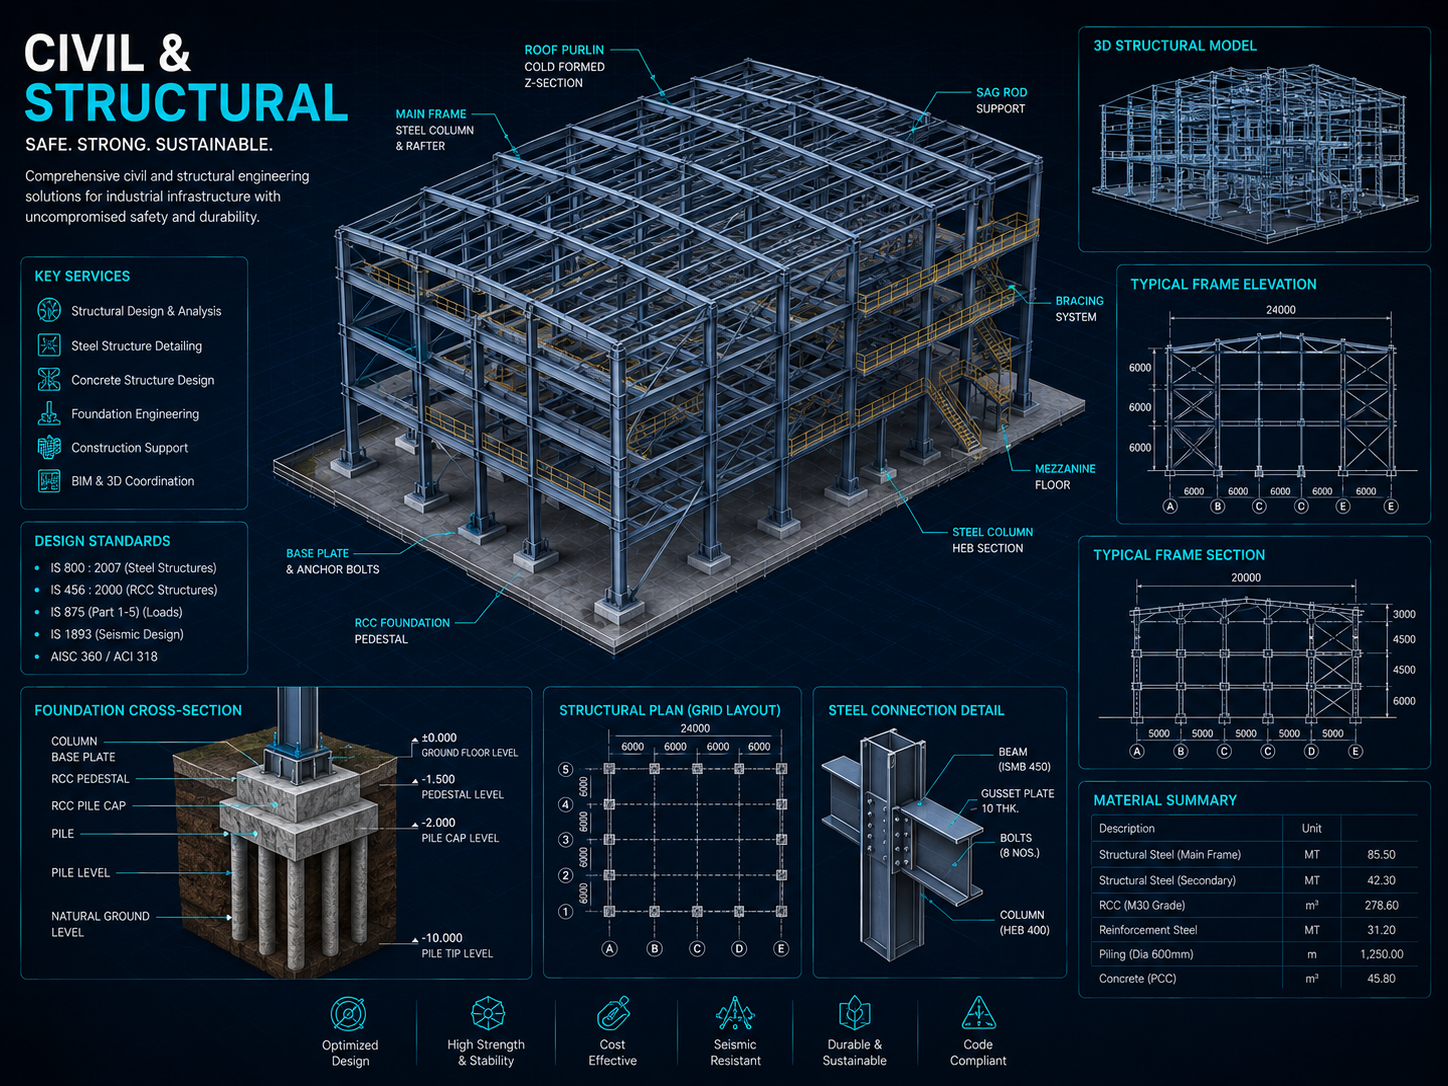
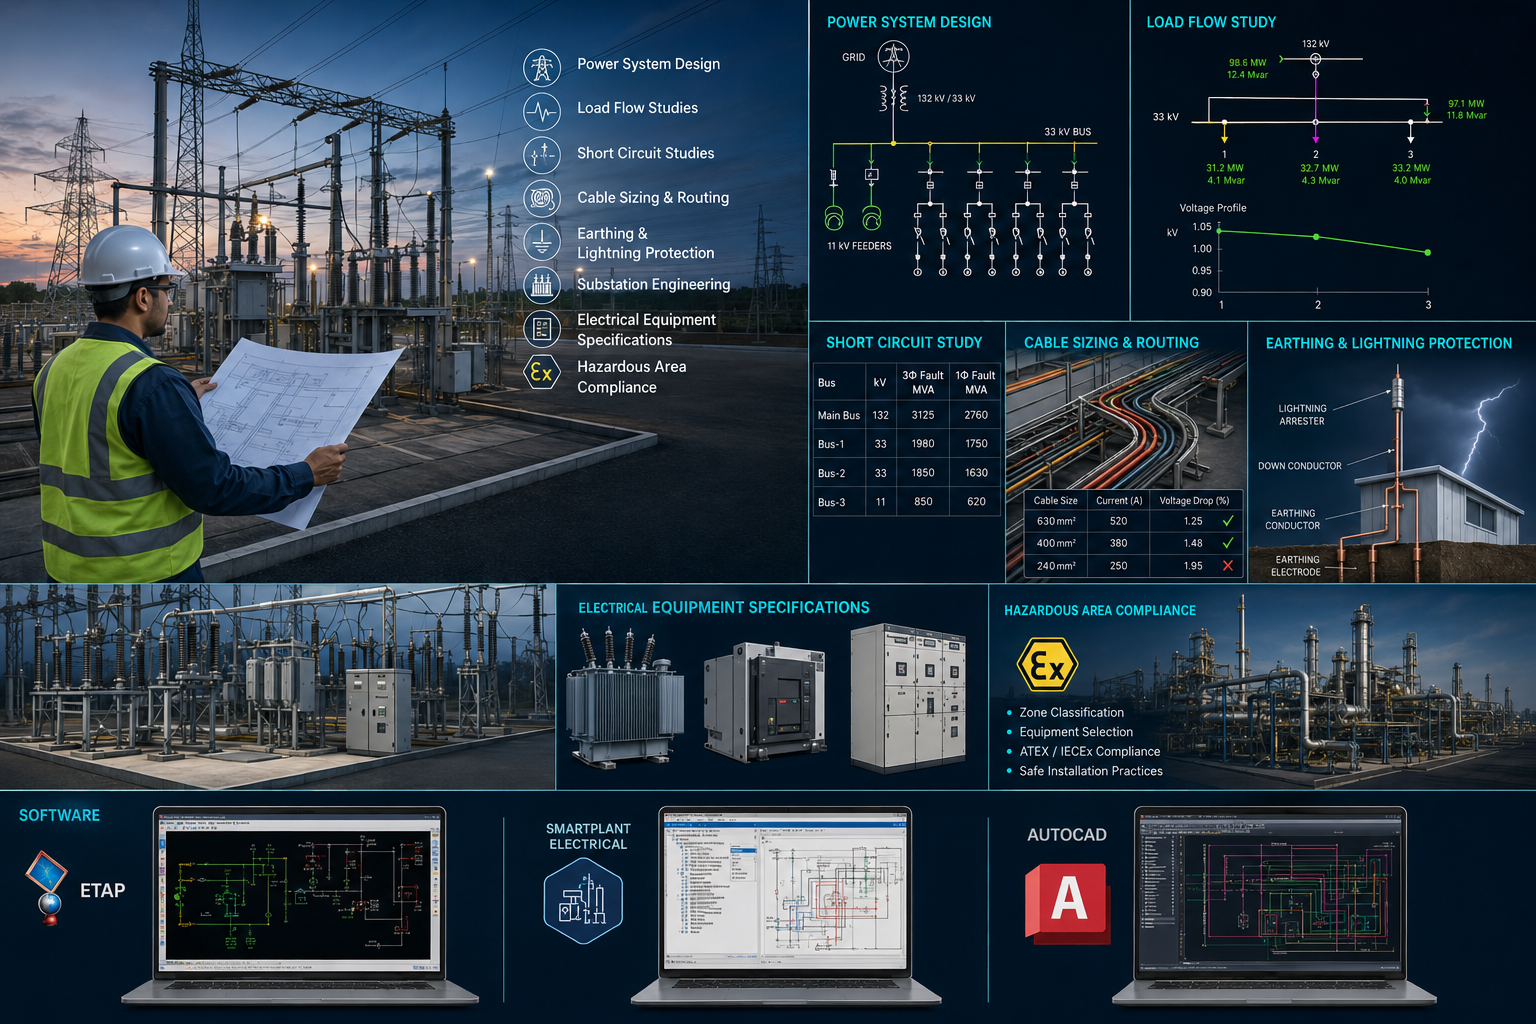
Update About page, footer, leadership profiles, navbar and website content

diff --git a/frontend/src/components/Navbar.jsx b/frontend/src/components/Navbar.jsx
@@ -4,7 +4,7 @@ import Link from 'next/link';
 import Image from 'next/image';
 import { usePathname } from 'next/navigation';
 import { motion, AnimatePresence } from 'framer-motion';
-import { ChevronDown, Menu, X, ArrowUpRight, LayoutDashboard } from 'lucide-react';
+import { ChevronDown, Menu, X, } from 'lucide-react';
 
 // ─── AUTHENTICATION & MODAL IMPORTS ──────────────────────────────────────────
 import { useAuth } from '@/context/AuthContext';
@@ -14,10 +14,7 @@ import logoImg from '../assets/aarvi-header-logo.png';
 
 // ─── NAV DATA ────────────────────────────────────────────────────────────────
 
-const ABOUT_LINKS = [
-  { label: "Vision & Mission", href: "/about#vision-mission" },
-  { label: "Management Team",  href: "/about#management-team" },
-];
+
 
 export const SERVICE_LINKS = [
   { 
@@ -150,41 +147,7 @@ function ServiceDropdown({ t, onClose }) {
   );
 }
 
-function AboutDropdown({ t, onClose }) {
-  return (
-    <div className={`absolute top-full left-0 w-full border-b backdrop-blur-2xl ${t.panel}`}>
-      <div className="max-w-7xl mx-auto px-6 lg:px-10 py-8 grid grid-cols-12 gap-8">
-        <div className="col-span-3 flex flex-col gap-4 pr-6" style={{ borderRight: `1px solid ${t.accent}18` }}>
-          <p className="font-mono text-[9px] tracking-[0.25em] uppercase" style={{ color: t.accent }}>
-            Aarvi Encon
-          </p>
-          <h3 className="font-sans font-black uppercase tracking-tight leading-tight text-xl text-aarvi-navy">
-            Corporate<br />Governance
-          </h3>
-          <p className="font-mono text-[11px] leading-relaxed text-aarvi-navy/60">
-            39+ years of engineering excellence. Trusted by global EPC contractors since 1987.
-          </p>
-        </div>
 
-        <div className="col-span-9 grid grid-cols-2 gap-1">
-          {ABOUT_LINKS.map((a) => (
-            <Link
-              key={a.href}
-              href={a.href}
-              onClick={onClose}
-              className={`group flex items-start gap-2 px-3.5 py-3 rounded-sm transition-colors duration-150 ${t.dlinkBg}`}
-            >
-              <span className="mt-0.5 text-[8px]" style={{ color: t.accent, opacity: 0.5 }}>┼</span>
-              <span className={`font-sans font-bold text-[11px] leading-snug transition-colors ${t.dlinkText} ${t.dlinkHov}`}>
-                {a.label}
-              </span>
-            </Link>
-          ))}
-        </div>
-      </div>
-    </div>
-  );
-}
 
 // ─── MAIN NAVBAR ─────────────────────────────────────────────────────────────
 
@@ -269,9 +232,9 @@ export default function Navbar() {
             <Image
               src={logoImg}
               alt="Aarvi Encon"
-              width={136}
-              height={44}
-              className="w-auto h-8 object-contain"
+              width={180}
+              height={60}
+              className="w-auto h-12 object-contain"
               priority
             />
           </Link>
@@ -280,15 +243,14 @@ export default function Navbar() {
           <nav className="hidden lg:flex items-center h-full flex-1 justify-center" aria-label="Main navigation">
             <NavLink href="/" t={t} onClick={closeMenu} isActive={pathname === '/'}>Home</NavLink>
 
-            <DropdownTrigger
-              label="About"
-              isMenuOpen={activeMenu === 'about'}
-              isActivePage={pathname.startsWith('/about')}
-              t={t}
-              onEnter={() => openMenu('about')}
-              onLeave={scheduleClose}
-              onClick={closeMenu}
-            />
+            <NavLink
+  href="/about"
+  t={t}
+  onClick={closeMenu}
+  isActive={pathname.startsWith('/about')}
+>
+  About
+</NavLink>
 
             <NavLink href="/industries" t={t} onClick={closeMenu} isActive={pathname.startsWith('/industries')}>
               Industries
@@ -352,18 +314,7 @@ export default function Navbar() {
                 <ServiceDropdown t={t} onClose={closeMenu} />
               </motion.div>
             )}
-            {activeMenu === 'about' && (
-              <motion.div
-                key="about-dd"
-                initial={{ opacity: 0, y: -8 }}
-                animate={{ opacity: 1, y: 0 }}
-                exit={{ opacity: 0, y: -6 }}
-                transition={{ duration: 0.2, ease: [0.22, 1, 0.36, 1] }}
-                className="hidden lg:block"
-              >
-                <AboutDropdown t={t} onClose={closeMenu} />
-              </motion.div>
-            )}
+            
           </AnimatePresence>
         </div>
 
@@ -381,21 +332,14 @@ export default function Navbar() {
               <nav className="flex flex-col px-5 pt-4 pb-6 gap-0" aria-label="Mobile navigation">
                 <MobileSimpleLink href="/" t={t} onClose={() => setMobileOpen(false)} isActive={pathname === '/'}>Home</MobileSimpleLink>
 
-                <MobileAccordion label="About Us" t={t} isActivePage={pathname.startsWith('/about')}>
-                  {ABOUT_LINKS.map((a) => (
-                    <Link
-                      key={a.href}
-                      href={a.href}
-                      onClick={() => setMobileOpen(false)}
-                      className={`flex items-center gap-2 px-4 py-2.5 text-[12px] font-mono transition-colors ${
-                        pathname === a.href ? t.linkAct : t.mobileSub
-                      }`}
-                    >
-                      <span style={{ opacity: 0.4 }}>┼</span>
-                      {a.label}
-                    </Link>
-                  ))}
-                </MobileAccordion>
+                <MobileSimpleLink
+  href="/about"
+  t={t}
+  onClose={() => setMobileOpen(false)}
+  isActive={pathname.startsWith('/about')}
+>
+  About
+</MobileSimpleLink>
 
                 <MobileSimpleLink href="/industries" t={t} onClose={() => setMobileOpen(false)} isActive={pathname.startsWith('/industries')}>
                   Industries

diff --git a/frontend/src/app/about/_components/BoardOfDirectorsSection.jsx b/frontend/src/app/about/_components/BoardOfDirectorsSection.jsx
@@ -4,8 +4,7 @@ import { motion, AnimatePresence } from 'framer-motion';
 import Image from 'next/image';
 import Link from 'next/link';
 import { 
-  ArrowUpRight, X, Globe, Mail, GraduationCap, 
-  Briefcase, CheckCircle2, Award
+  ArrowUpRight, X,Briefcase, Award
 } from 'lucide-react';
 
 // ─── IMPORT HOOK FOR LOCAL IMAGE ASSETS ─────────────────────────────────────
@@ -20,62 +19,61 @@ const LEADERSHIP_ROSTER = [
     id: "virendra-sanghavi",
     name: "Virendra D. Sanghavi",
     role: "Managing Director",
-    shortDesc: "Visionary leader with over 48 years of excellence in process plant design and engineering.",
-    background: "Chemical Engineering Graduate from UDCT",
-    experience: "48+ Years of Industry Excellence",
+    shortDesc: "48+ years leading engineering, EPC and industrial project execution.",
+    experience: "48+ Years",
     bio: [
-      "Virendra D. Sanghavi brings over 48 years of deep operational experience in the design, development, construction, and operation of process plants in India and abroad.",
-      "He maintains an exceptional track record in the industry, having worked with high-tier Engineering, Lubricant, Petrochemical, and Pharmaceutical companies, including Merck Sharp & Dohme India Ltd., Lubrizol India Ltd., Aker Solution (Erstwhile Davy Power Gas), and Bhansali Engineering Polymers Ltd.",
-      "Mr. Sanghavi has also held key positions of responsibility as a visiting lecturer at the Institute of Chemical Technology, Matunga, teaching piping engineering to third-year students. He is the Past President and sits on the Board of Governors of the UDCT Alumni Association.",
-      "He is the recipient of numerous awards for his pioneering engineering consultancy work, including the NOCIL Award for Excellence in Consultancy Services, the Star SME Award (2010), and the CFBP 'Jamnalal Bajaj Award' for 'Fair Business Practices' (2014) presented by the Late Dr. APJ Abdul Kalam."
-    ],
-    accreditedLogo: "UDCT / ICT Alumnus",
+  "Virendra D. Sanghavi brings over 48 years of distinguished experience in the design, engineering, construction, and operation of complex process plants across India and international markets. Throughout his career, he has held leadership roles with renowned organizations including Merck Sharp & Dohme India Ltd., Lubrizol India Ltd., Aker Solutions (formerly Davy Powergas), and Bhansali Engineering Polymers Ltd., contributing to the successful delivery of technically demanding industrial projects.",
+
+  "Beyond industry, Mr. Sanghavi has actively contributed to engineering education as a Visiting Lecturer at the Institute of Chemical Technology (formerly UDCT), Mumbai, where he taught Piping Engineering. He also served as the Past President and continues as a member of the Board of Governors of the UDCT Alumni Association.",
+
+  "His contributions have been recognized through prestigious honors, including the NOCIL Award for Excellence in Consultancy Services, the Star SME Award (2010), and the CFBP Jamnalal Bajaj Award for Fair Business Practices (2014), presented by the Late Dr. A.P.J. Abdul Kalam."
+],
     image: imgVirendra
   },
   {
     id: "jaydev-sanghavi",
     name: "Jaydev V. Sanghavi",
     role: "Executive Director",
-    shortDesc: "Strategic commander driving international expansion and complex project delivery.",
-    background: "Chemical Engineering Graduate from Mumbai University",
-    experience: "34+ Years of Operational Command",
+    shortDesc: "Driving strategic growth, operational excellence and international expansion.",
+    experience: "34+ Years",
     bio: [
-      "Jaydev V. Sanghavi joined Aarvi Encon Ltd. in 1992 and currently serves as the Executive Director.",
-      "With over 34 years of comprehensive experience spanning operations and finance, Jaydev has played a crucial role in developing strategic business tie-ups and successfully delivering several large-scale, complex projects.",
-      "Under his leadership, Aarvi Encon has become the largest Technical Staffing company in India, establishing international offices at major locations including India, Qatar, UAE, and Saudi Arabia."
-    ],
-    accreditedLogo: "Mumbai University",
+      "Jaydev V. Sanghavi has been associated with Aarvi Encon since 1992 and currently serves as the Executive Director, playing a pivotal role in the company's strategic growth and operational excellence. With over 34 years of experience across business operations, finance and corporate management, he has been instrumental in strengthening Aarvi's position within the engineering and industrial services sector.",
+
+  "Throughout his career, Jaydev has successfully developed strategic partnerships, expanded business relationships and led the execution of several large and complex projects across multiple industries. His leadership has been central to Aarvi's sustained growth, organizational transformation and international expansion.",
+
+  "Today, he oversees key business initiatives that support the company's long-term vision while driving operational efficiency and customer value. Under his leadership, Aarvi has established a strong international presence with operations across India, Qatar, UAE and Saudi Arabia, enabling the organization to support clients across diverse global markets."
+],
     image: imgJaydev
   },
   {
     id: "r-manoj",
     name: "R. Manoj",
     role: "Senior Vice President",
-    shortDesc: "Global operations head driving revenue and strategic international tie-ups.",
-    background: "Graduate from Andhra University",
-    experience: "24+ Years of Technical Management",
+    shortDesc: "Leading business development across engineering and EPC markets.",
+    experience: "24+ Years",
     bio: [
-      "R. Manoj joined Aarvi Encon Ltd. in 2004 and currently serves as the Senior Vice President.",
-      "With over 24 years of extensive experience in Engineering, Oil & Gas, and EPC industries, he has been instrumental in driving business growth across both Indian and international markets.",
-      "He has managed operations generating revenues exceeding INR 1,700 million and played a key role in developing strategic business tie-ups.",
-      "He leads Aarvi Encon's international business operations, managing regional offices across the UAE, Oman, Qatar, Saudi Arabia, Indonesia, and Malaysia."
+       "R. Manoj has been associated with Aarvi Encon since 2004 and currently serves as the Senior Vice President. With over 24 years of experience across Engineering, Oil & Gas and EPC industries, he has played a significant role in expanding the company's business footprint across domestic and international markets.",
+
+  "He has successfully led strategic business development initiatives, established long-term client partnerships and contributed to the execution of several major engineering and industrial projects. His commercial leadership has supported sustained business growth while delivering revenues exceeding INR 1,700 million.",
+
+  "Manoj also leads Aarvi's international business operations, overseeing regional activities across the UAE, Oman, Qatar, Saudi Arabia, Indonesia and Malaysia. His strong understanding of client requirements, market dynamics and project execution continues to strengthen Aarvi's global presence and long-term business relationships."
+
     ],
-    accreditedLogo: "Andhra University",
     image: imgManoj
   },
   {
     id: "sreenivasu-motupalli",
-    name: "Sreenivasu Motupalli",
+    name: "M. Sreenivasu",
     role: "Vice President - Engineering",
-    shortDesc: "Engineering veteran overseeing EPC execution and corporate systems management.",
-    background: "Mechanical Engineering Graduate from NIT, Rourkela",
-    experience: "45+ Years of Vast & Versatile EPC Experience",
+    shortDesc: "Leading multidisciplinary engineering for complex EPC projects.",
+    experience: "45+ Years",
     bio: [
-      "M Sreenivasu currently serves as the Vice President-Engineering at Aarvi Encon. He brings over 45 years of versatile experience through diverse fields in execution of Pre-FEED, FEED, and Detailed Engineering in an EPC environment.",
-      "His core responsibilities span multi-discipline Engineering Management, PMC Engineering Management, and scrutinizing EPC Contractor's execution models.",
-      "He further handles HOD functions for Plant & Piping Design, Corporate Systems Management (including Smart Plant Suite and AVEVA platforms), and serves as the Ethics & Compliance Representative."
+      "M. Sreenivasu serves as the Vice President – Engineering and brings over 45 years of multidisciplinary engineering experience in delivering Pre-FEED, FEED and Detailed Engineering for complex EPC projects. Throughout his career, he has successfully led engineering organizations, multidisciplinary project teams and PMC engineering services across large industrial developments.",
+
+  "His expertise spans Engineering Management, Project Engineering, Plant & Piping Engineering, EPC contractor review, digital engineering systems and corporate engineering governance. He has also led the implementation and management of advanced engineering platforms, including SmartPlant and AVEVA solutions.",
+
+  "Sreenivasu has extensive project experience across Offshore Oil & Gas, LNG, Refineries, Petrochemicals, Chemical Plants, LPG Facilities, Power Generation and Pharmaceutical Industries, supporting both greenfield and brownfield developments. His technical leadership and practical project experience continue to strengthen Aarvi's engineering capabilities and commitment to delivering technically robust, execution-focused solutions."
     ],
-    accreditedLogo: "NIT Rourkela",
     image: imgSreenivasu
   }
 ];
@@ -260,22 +258,14 @@ export default function BoardOfDirectorsSection() {
                   </div>
 
                   {/* Highlights Grid */}
-                  <div className="grid grid-cols-1 sm:grid-cols-2 gap-4 py-6 border-y border-slate-100">
-                    <div className="flex items-start gap-3">
-                      <div className="w-8 h-8 rounded-lg bg-slate-50 flex items-center justify-center shrink-0">
-                        <GraduationCap className="w-4 h-4 text-[#1db87a]" />
-                      </div>
-                      <div>
-                        <span className="text-[9px] font-bold text-slate-400 uppercase font-mono block">Education</span>
-                        <span className="text-xs font-bold text-[#0a1628] leading-tight">{selectedLeader.background}</span>
-                      </div>
-                    </div>
+                  <div className="py-6 border-y border-slate-100">
+                   
                     <div className="flex items-start gap-3">
                       <div className="w-8 h-8 rounded-lg bg-slate-50 flex items-center justify-center shrink-0">
                         <Briefcase className="w-4 h-4 text-[#1db87a]" />
                       </div>
                       <div>
-                        <span className="text-[9px] font-bold text-slate-400 uppercase font-mono block">Tenure</span>
+                        <span className="text-[9px] font-bold text-slate-400 uppercase font-mono block">Industry Expertise</span>
                         <span className="text-xs font-bold text-[#0a1628] leading-tight">{selectedLeader.experience}</span>
                       </div>
                     </div>
@@ -284,7 +274,7 @@ export default function BoardOfDirectorsSection() {
                   {/* Biography Paragraphs */}
                   <div className="space-y-4 pt-2">
                     <h4 className="text-xs font-black uppercase tracking-widest text-[#0a1628] flex items-center gap-2">
-                      <Award className="w-4 h-4 text-[#1db87a]" /> Executive Biography
+                      <Award className="w-4 h-4 text-[#1db87a]" /> Leadership Profile
                     </h4>
                     <div className="space-y-4 text-slate-500 text-sm leading-relaxed font-medium">
                       {selectedLeader.bio.map((paragraph, idx) => (
@@ -293,12 +283,7 @@ export default function BoardOfDirectorsSection() {
                     </div>
                   </div>
 
-                  {/* Footer Credentials */}
-                  <div className="pt-8 flex items-center gap-3">
-                    <div className="px-4 py-2 bg-slate-50 border border-slate-200 rounded-lg text-xs font-bold text-slate-600 flex items-center gap-2">
-                      <CheckCircle2 className="w-4 h-4 text-[#1db87a]" /> {selectedLeader.accreditedLogo}
-                    </div>
-                  </div>
+              
                   
                 </div>
               </motion.div>